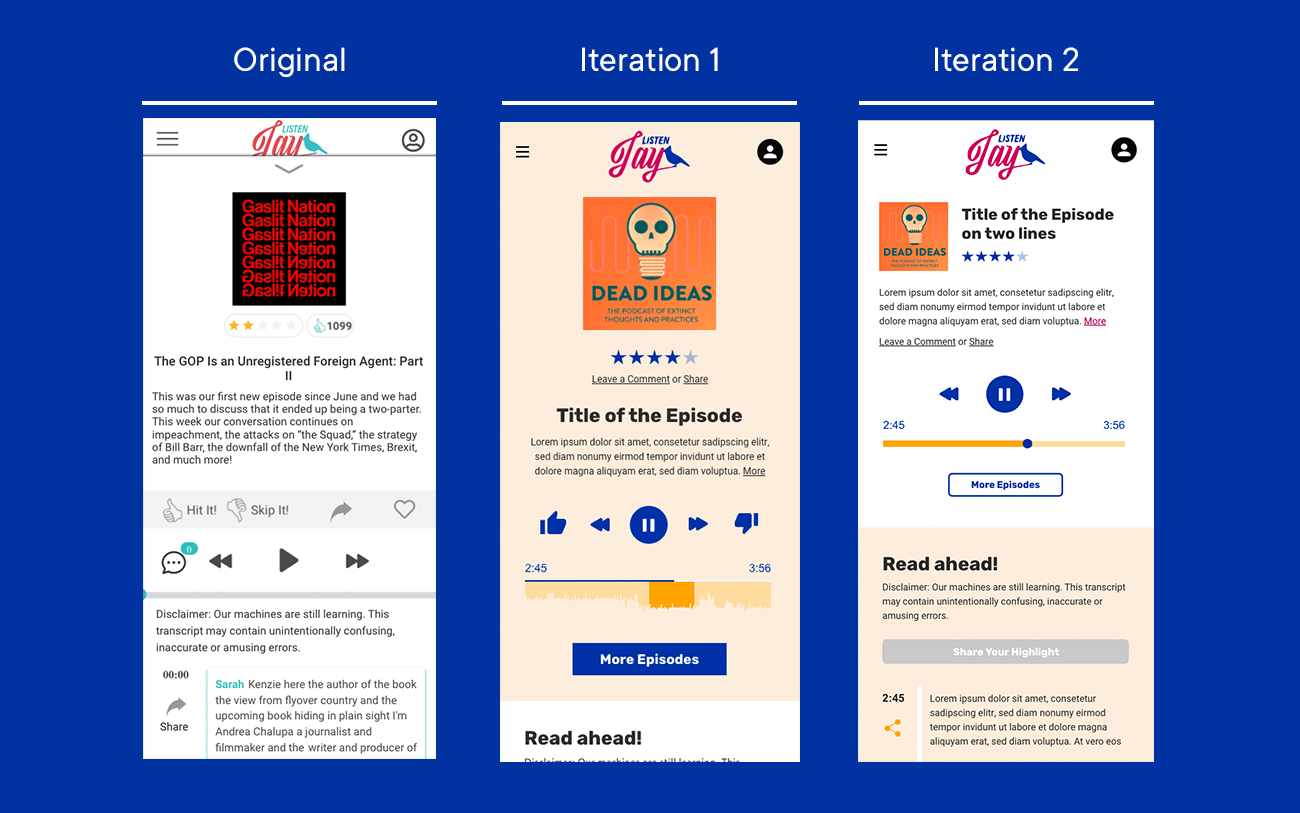
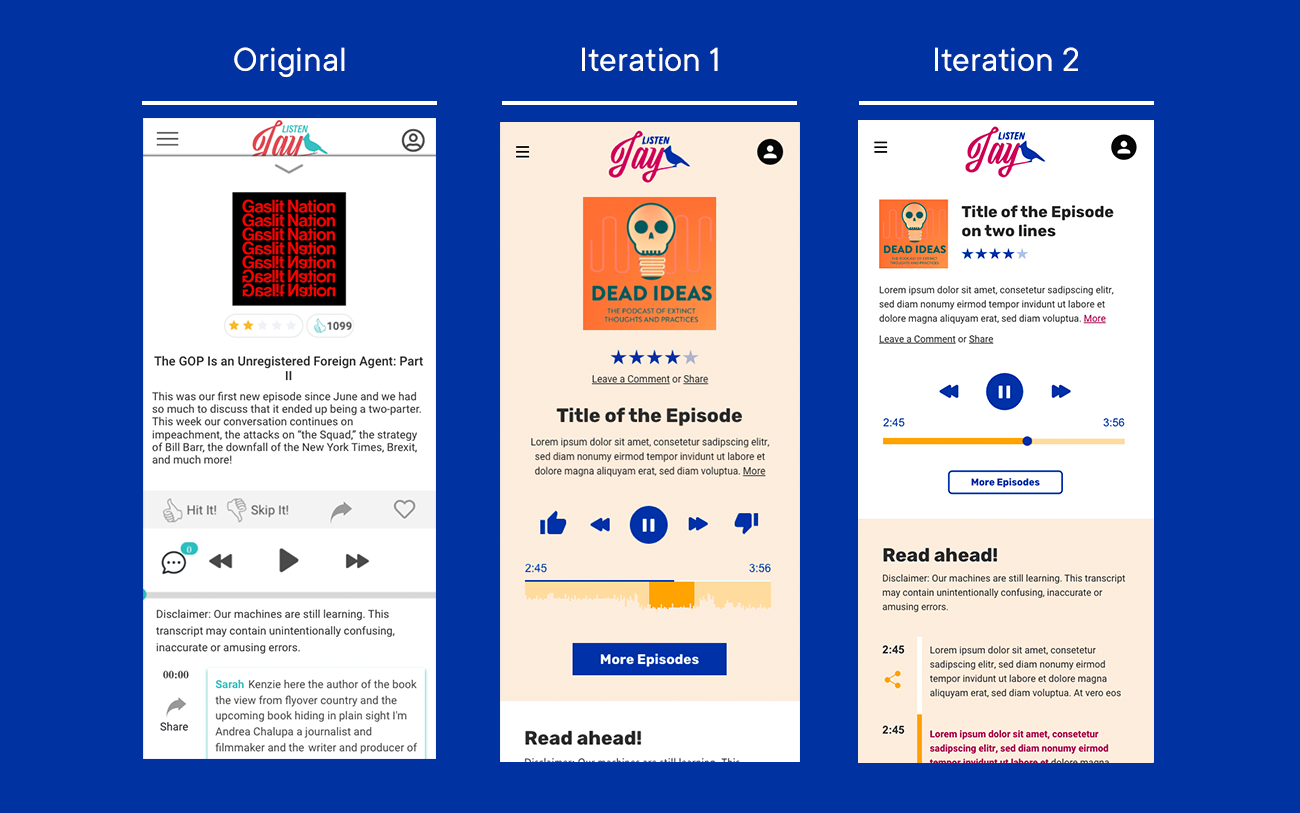
update listen jay page w v2

diff --git a/src/pages/ListenJay.js b/src/pages/ListenJay.js
@@ -10,12 +10,12 @@ import Spacer from 'components/Spacer'
 import Image from 'components/Image'
 import SubHeading from 'components/Typography/SubHeading'
 
-import ResultsPod from 'static/images/ListenJay/result_podacst.png'
+import ResultsPod from 'static/images/ListenJay/iterations.png'
 import Areas from 'static/images/ListenJay/areas.png'
 import Wireframes from 'static/images/ListenJay/wireframes.jpg'
 import LJBranding from 'static/images/ListenJay/LJ-branding.png'
 import Player from 'static/images/ListenJay/player-hifi.png'
-import Home from 'static/images/ListenJay/home-hifi.png'
+import Iteration from 'static/images/ListenJay/iterations-2.png'
 
 
 export default () => (
@@ -38,6 +38,9 @@ export default () => (
 				<Spacer />
 				<SubHeading>IDENTIFY AREAS FOR IMPROVEMENT</SubHeading>
 				<Spacer />
+				<Body>
+					This round of wireframes and mockups was something that I proactively brought to ListenJay without the benefit of talking to them first. These areas were things I identified as a new user without knowledge of teh business strategy.
+				</Body>
 				<Image size="full" src={Areas} />
 				<Spacer />
 				<Spacer />
@@ -49,11 +52,18 @@ export default () => (
 				<SubHeading>BRANDING AND HI-FIDELITY MOCK UPS</SubHeading>
 				<Spacer />
 				<Body>
-					With the Listen Jay branding I wanted to use a more consistent font family that would improve legibility. I also wanted to incorporate colors that made the platform feel modern and use them in a more inviting way.
+					With the Listen Jay branding I wanted to use a more consistent font family that would improve legibility. I also wanted to incorporate colors that are similar to the original colors but made the platform feel modern and use them in a more inviting way.
 				</Body>
 				<Image size="full" src={LJBranding} />
 				<Image size="full" src={Player} />
-				<Image size="full" src={Home} />
+				<Spacer />
+				<Spacer />
+				<SubHeading>FEEDBACK AND ITERATION</SubHeading>
+				<Spacer />
+				<Body>
+					After talking to the ListenJay team, I learned a lot about the functionality of the platform that informed the second round of designs. The key differentiator of ListenJay is the ability to share any line from the transcript and link directly to that part. This lead me to condense the player to bring the transcript higher on the page and remove many of the call-to-actions that a user would encounter before reaching the transcript.
+				</Body>
+				<Image size="full" src={Iteration} />
 			</ContentBlock>
 		</PageContent>
 	</PageWrapper>
